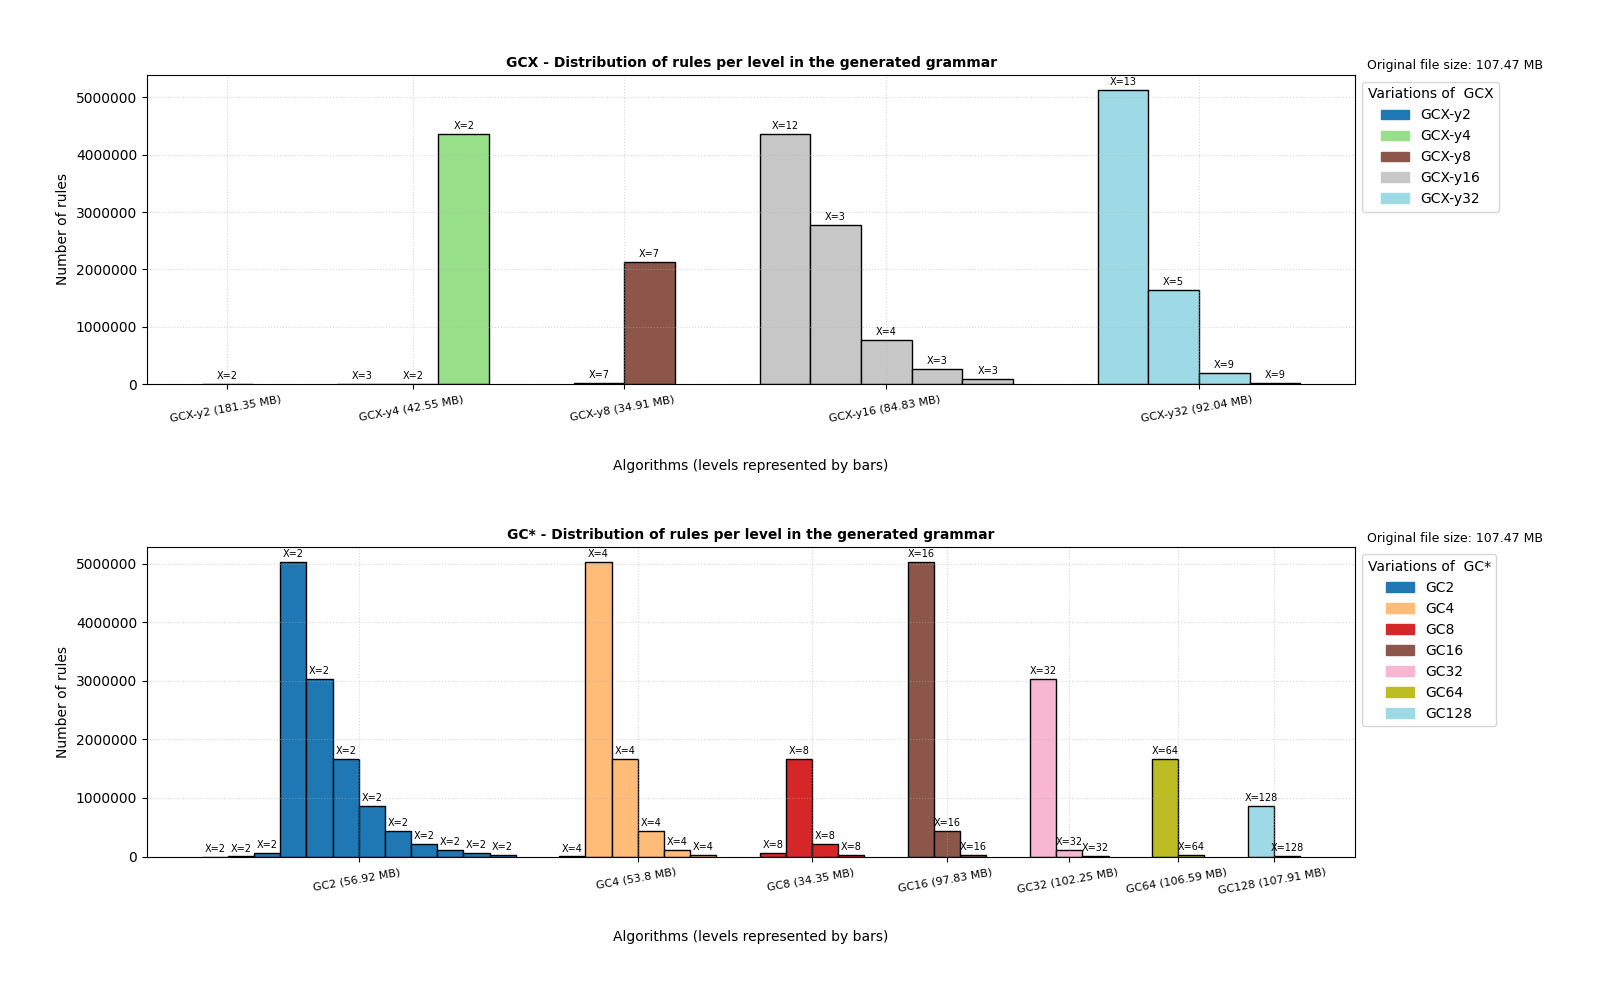
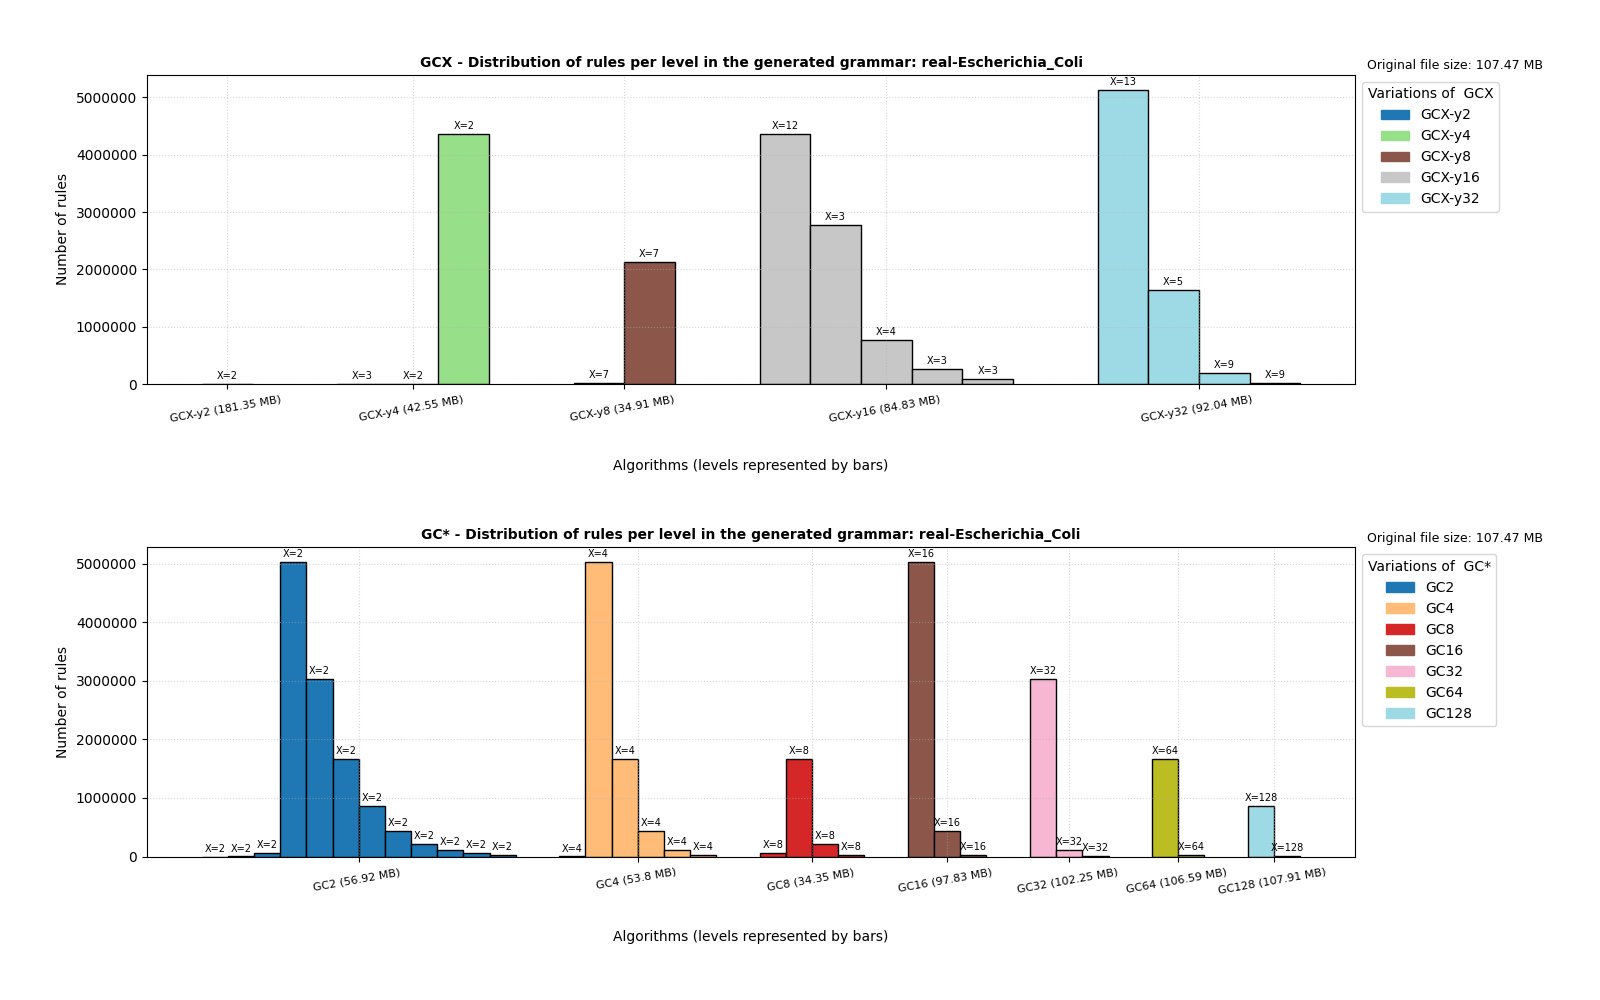
adiciona nome do arquivo

Changed region(s): [[0.25, 0.527, 0.6875, 0.558], [0.3125, 0.031, 0.5, 0.093], [0.5312, 0.062, 0.6562, 0.093]]

diff --git a/scripts/graphs/plotting.py b/scripts/graphs/plotting.py
@@ -181,7 +181,7 @@ def generate_grammar_chart(results, information, output_dir):
 
         plot_grammar(grammar_groups[i], ax, algorithms, color_map)
 
-        ax.set_title(f"{grammar_groups_names[i]} - {information['title']}", fontsize=10, fontweight='bold')
+        ax.set_title(f"{grammar_groups_names[i]} - {information['title']}: {results.index[0]}", fontsize=10, fontweight='bold')
         ax.set_ylabel(information['y_label'])
         ax.set_xlabel(information['x_label'], labelpad=25)
         ax.ticklabel_format(style='plain', axis='y')
